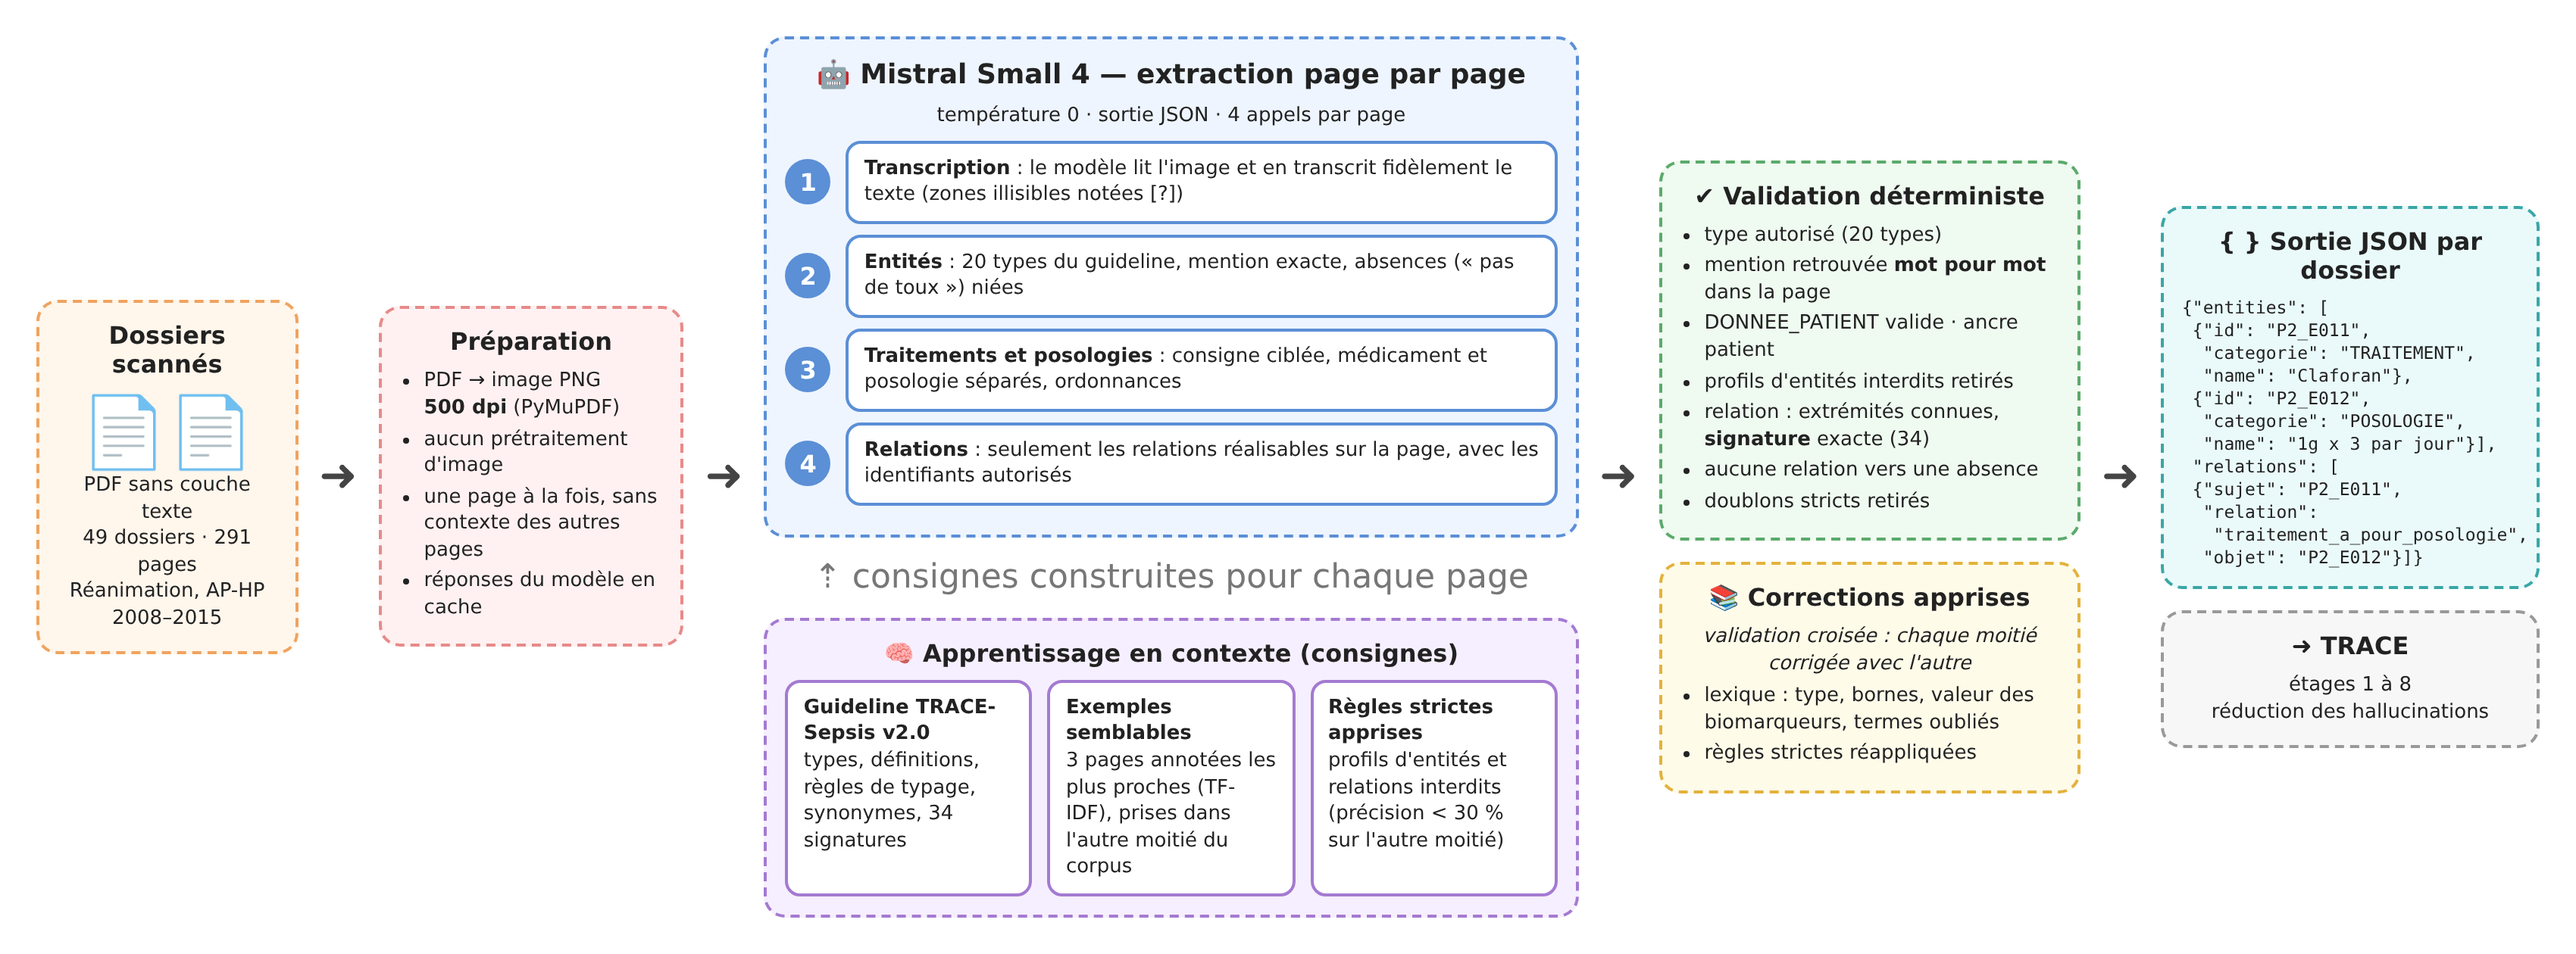
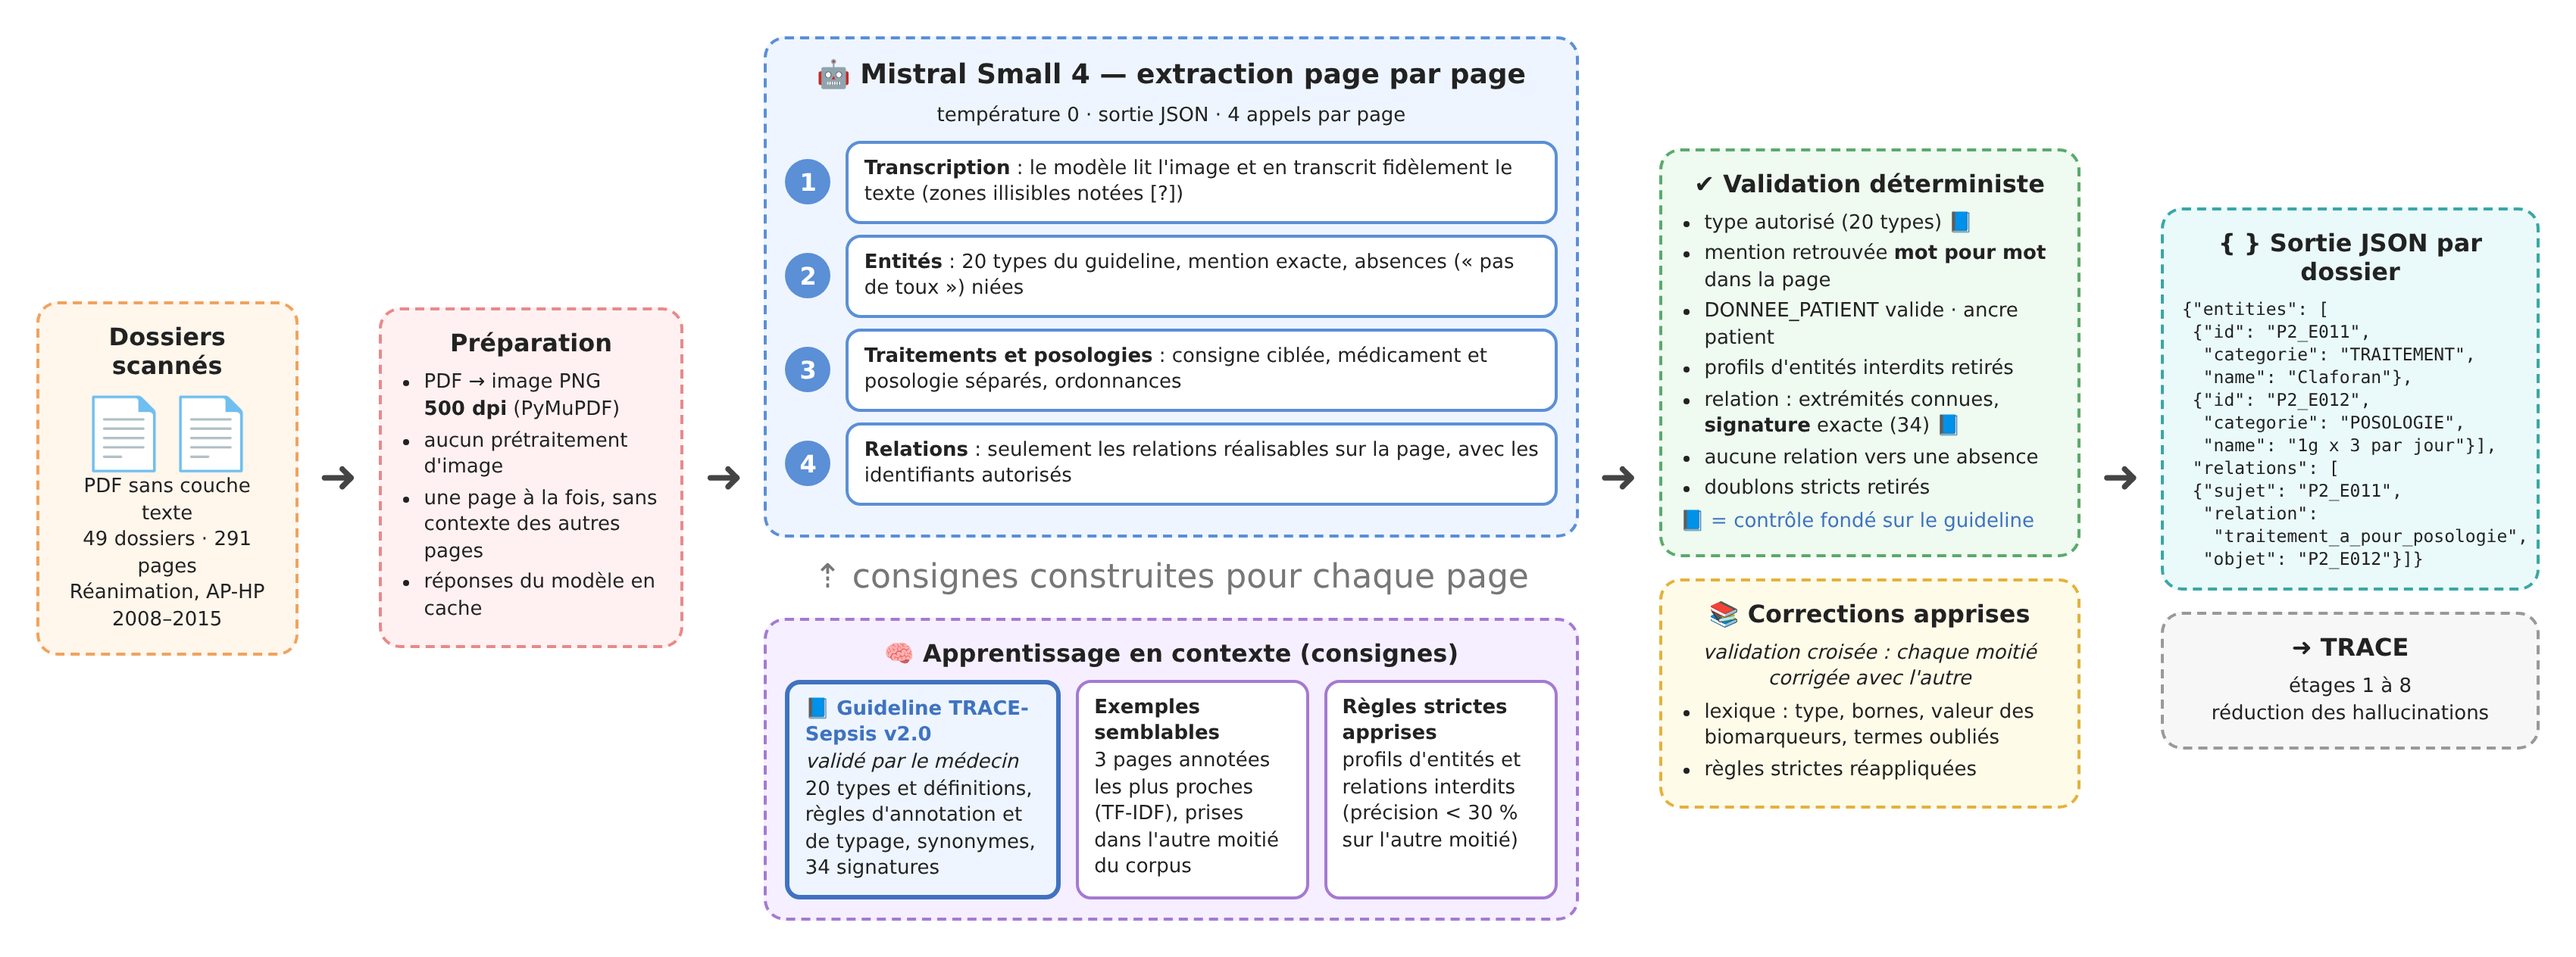
Figures du chapitre 4 : guideline TRACE-Sepsis v2.0 mis en évidence (blocs 2 à 4 de la consigne, source des consignes et des contrôles)
Claude-Session: https://claude.ai/code/session_01U1N2aa47apfcVip95LQDuG

diff --git a/memoire/figures_sources/prompt.html b/memoire/figures_sources/prompt.html
@@ -13,18 +13,18 @@ code{font-family:"DejaVu Sans Mono",monospace;font-size:11.5px}
 <div class="row"><div class="dash purple">Tu es un expert en extraction d'information clinique sur le sepsis. Applique strictement le guideline TRACE-Sepsis v2.0 à la page fournie.<br>
 MISSION : extraire de façon <b>exhaustive</b> toutes les entités cliniques <b>explicitement écrites</b> dans la page.</div><div class="lab" style="color:#8a5cc0">① Rôle et mission</div></div>
 
-<div class="row"><div class="dash pink">• « texte » = surface EXACTE, copiée mot pour mot · une mention = un seul type · aucune entité déduite de connaissances externes<br>
+<div style="border:3px solid #3f73c0;border-radius:14px;padding:8px 10px 2px;margin:12px 0;background:#f7faff"><div style="font-weight:bold;color:#3f73c0;font-size:16px;margin:2px 4px 4px">📘 Extraits du guideline TRACE-Sepsis v2.0 (validé par le médecin) — générés automatiquement à partir du fichier du guideline</div><div class="row"><div class="dash pink">• « texte » = surface EXACTE, copiée mot pour mot · une mention = un seul type · aucune entité déduite de connaissances externes<br>
 • TRAITEMENT et POSOLOGIE sont distincts (« Claforan » / « 1g x 3 par jour ») · la mention du patient est une DONNEE_PATIENT<br>
-• une absence (« pas de toux ») = une seule mention avec <code>"nie": true</code> · hypothèse : <code>"hypothese": true</code></div><div class="lab" style="color:#c55">② Règles absolues</div></div>
+• une absence (« pas de toux ») = une seule mention avec <code>"nie": true</code> · hypothèse : <code>"hypothese": true</code></div><div class="lab" style="color:#c55">② Règles absolues<br><span style="font-size:12px;font-weight:normal">(guideline)</span></div></div>
 
 <div class="row"><div class="dash orange">R1 ancrage textuel · R5 négation · R6 traitement envisagé · R9 chronique / aigu · R12 LABEL vs COMORBIDITÉ · R13 foyer rattaché à un diagnostic …<br>
 Typage : SIGNE_VITAL vs SYMPTOME · SYMPTOME vs DEFAILLANCE_ORGANE · LABEL_NOSOLOGIQUE vs FOYER_INFECTIEUX …<br>
-Synonymes : CRP / C.R.P. → proteine_C_reactive · IRA / AKI → IRA …</div><div class="lab" style="color:#d0802c">③ Règles du guideline</div></div>
+Synonymes : CRP / C.R.P. → proteine_C_reactive · IRA / AKI → IRA …</div><div class="lab" style="color:#d0802c">③ Règles générales,<br>typage, synonymes<br><span style="font-size:12px;font-weight:normal">(guideline)</span></div></div>
 
 <div class="row"><div class="dash blue">### BIOMARQUEUR — résultat biologique quantitatif (valeur, unité, direction) …<br>
-### LABEL_NOSOLOGIQUE — diagnostic de la liste autorisée : sepsis, choc_septique, pneumopathie … (20 types)</div><div class="lab" style="color:#3f73c0">④ Définitions des types</div></div>
+### LABEL_NOSOLOGIQUE — diagnostic de la liste autorisée : sepsis, choc_septique, pneumopathie … (20 types)</div><div class="lab" style="color:#3f73c0">④ Définitions des<br>20 types<br><span style="font-size:12px;font-weight:normal">(guideline)</span></div></div>
 
-<div class="row"><div class="dash yellow">RÈGLES STRICTES (apprises sur d'autres dossiers annotés) :<br>
+</div><div class="row"><div class="dash yellow">RÈGLES STRICTES (apprises sur d'autres dossiers annotés) :<br>
 • N'extrais JAMAIS : EVENEMENT_TEMPOREL sans date · SIGNE_VITAL sans valeur · POSOLOGIE sans chiffre …<br>
 • Mentions courtes : TRAITEMENT ≤ 2 mots · SYMPTOME ≤ 3 mots · BIOMARQUEUR ≤ 4 mots …<br>
 • Types peu fiables : en cas de doute, ne pas extraire.</div><div class="lab" style="color:#b88a10">⑤ Règles strictes<br>apprises<br><span style="font-size:12px;font-weight:normal">(autre moitié du corpus)</span></div></div>

diff --git a/memoire/figures_sources/pipeline.html b/memoire/figures_sources/pipeline.html
@@ -43,7 +43,7 @@ ul{margin-left:16px} li{margin:3px 0}
  <div class="dash purple">
   <div class="t">🧠 Apprentissage en contexte (consignes)</div>
   <div style="display:flex;gap:10px">
-   <div class="solid purple small" style="flex:1;background:#fff"><b>Guideline TRACE-Sepsis v2.0</b><br>types, définitions, règles de typage, synonymes, 34 signatures</div>
+   <div class="solid small" style="flex:1.2;background:#eef5ff;border:3px solid #3f73c0"><b style="color:#3f73c0">📘 Guideline TRACE-Sepsis v2.0</b><br><i>validé par le médecin</i><br>20 types et définitions, règles d'annotation et de typage, synonymes, 34 signatures</div>
    <div class="solid purple small" style="flex:1;background:#fff"><b>Exemples semblables</b><br>3 pages annotées les plus proches (TF-IDF), prises dans l'autre moitié du corpus</div>
    <div class="solid purple small" style="flex:1;background:#fff"><b>Règles strictes apprises</b><br>profils d'entités et relations interdits (précision &lt; 30 % sur l'autre moitié)</div>
   </div>
@@ -55,14 +55,15 @@ ul{margin-left:16px} li{margin:3px 0}
  <div class="dash green">
   <div class="t">✔ Validation déterministe</div>
   <ul class="small">
-   <li>type autorisé (20 types)</li>
+   <li>type autorisé (20 types) <span style="color:#3f73c0">📘</span></li>
    <li>mention retrouvée <b>mot pour mot</b> dans la page</li>
    <li>DONNEE_PATIENT valide · ancre patient</li>
    <li>profils d'entités interdits retirés</li>
-   <li>relation : extrémités connues, <b>signature</b> exacte (34)</li>
+   <li>relation : extrémités connues, <b>signature</b> exacte (34) <span style="color:#3f73c0">📘</span></li>
    <li>aucune relation vers une absence</li>
    <li>doublons stricts retirés</li>
   </ul>
+  <div class="small" style="color:#3f73c0;margin-top:4px">📘 = contrôle fondé sur le guideline</div>
  </div>
  <div class="dash yellow">
   <div class="t">📚 Corrections apprises</div>
